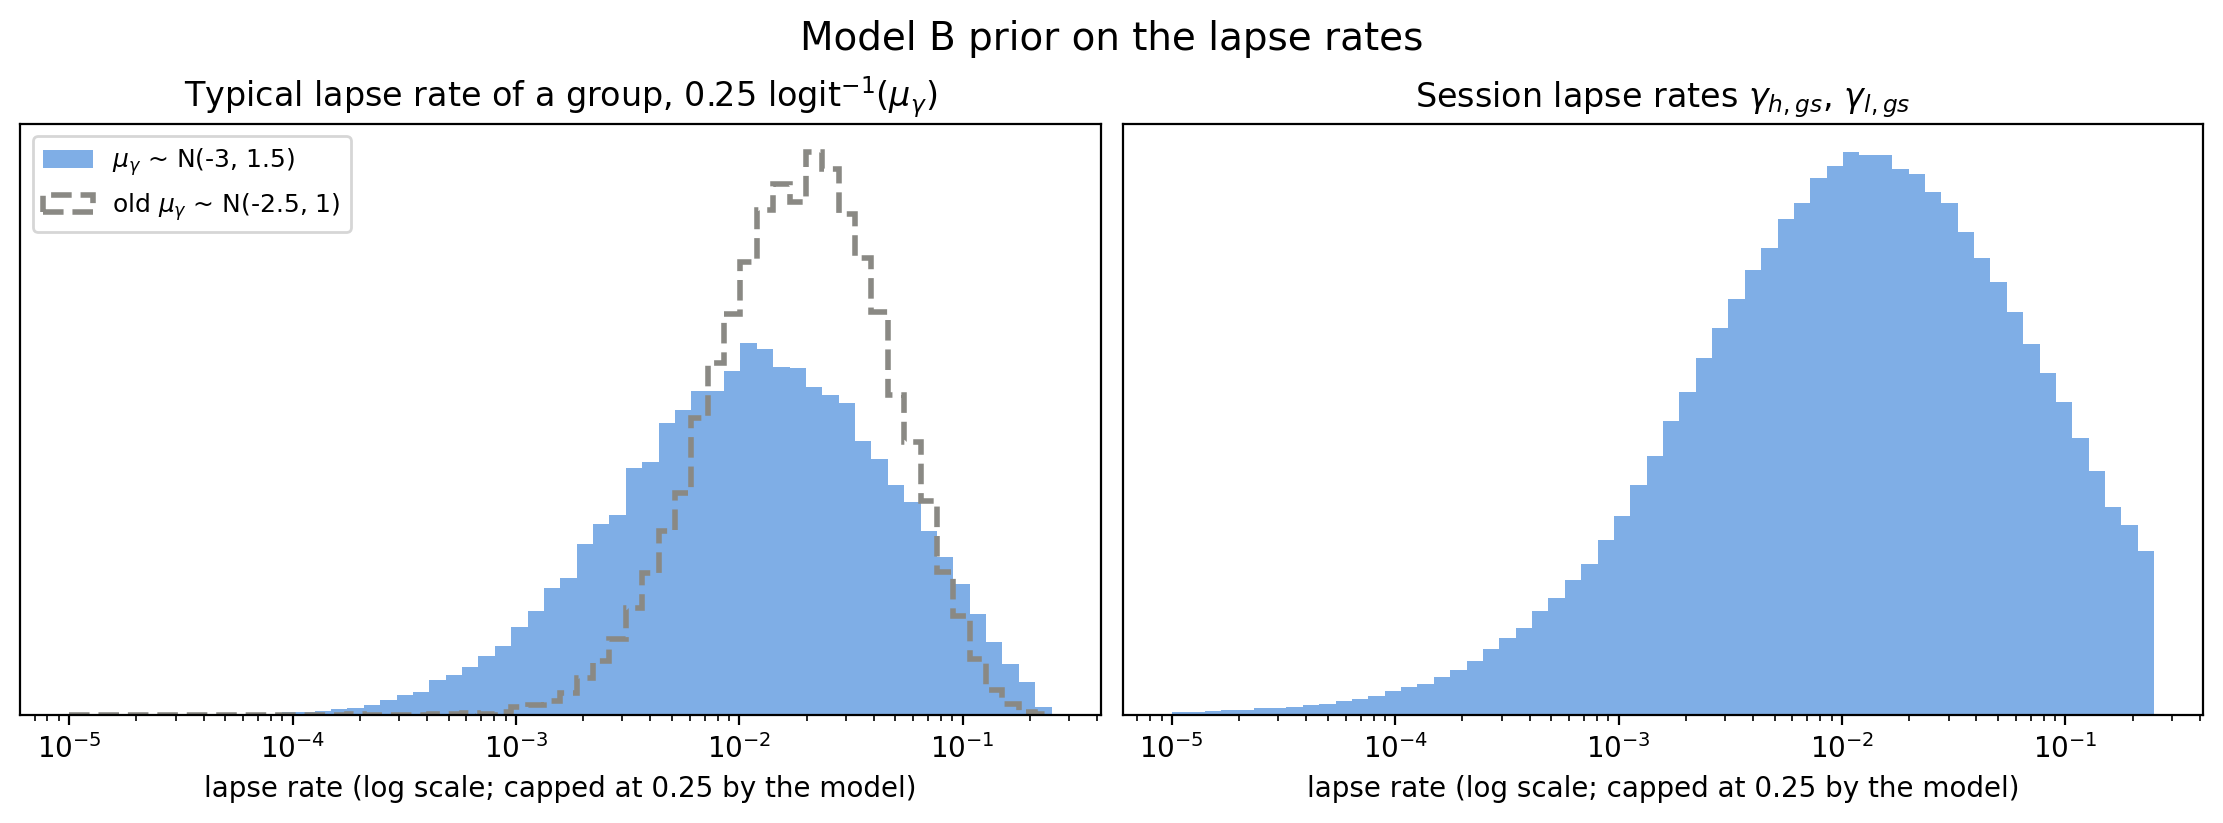
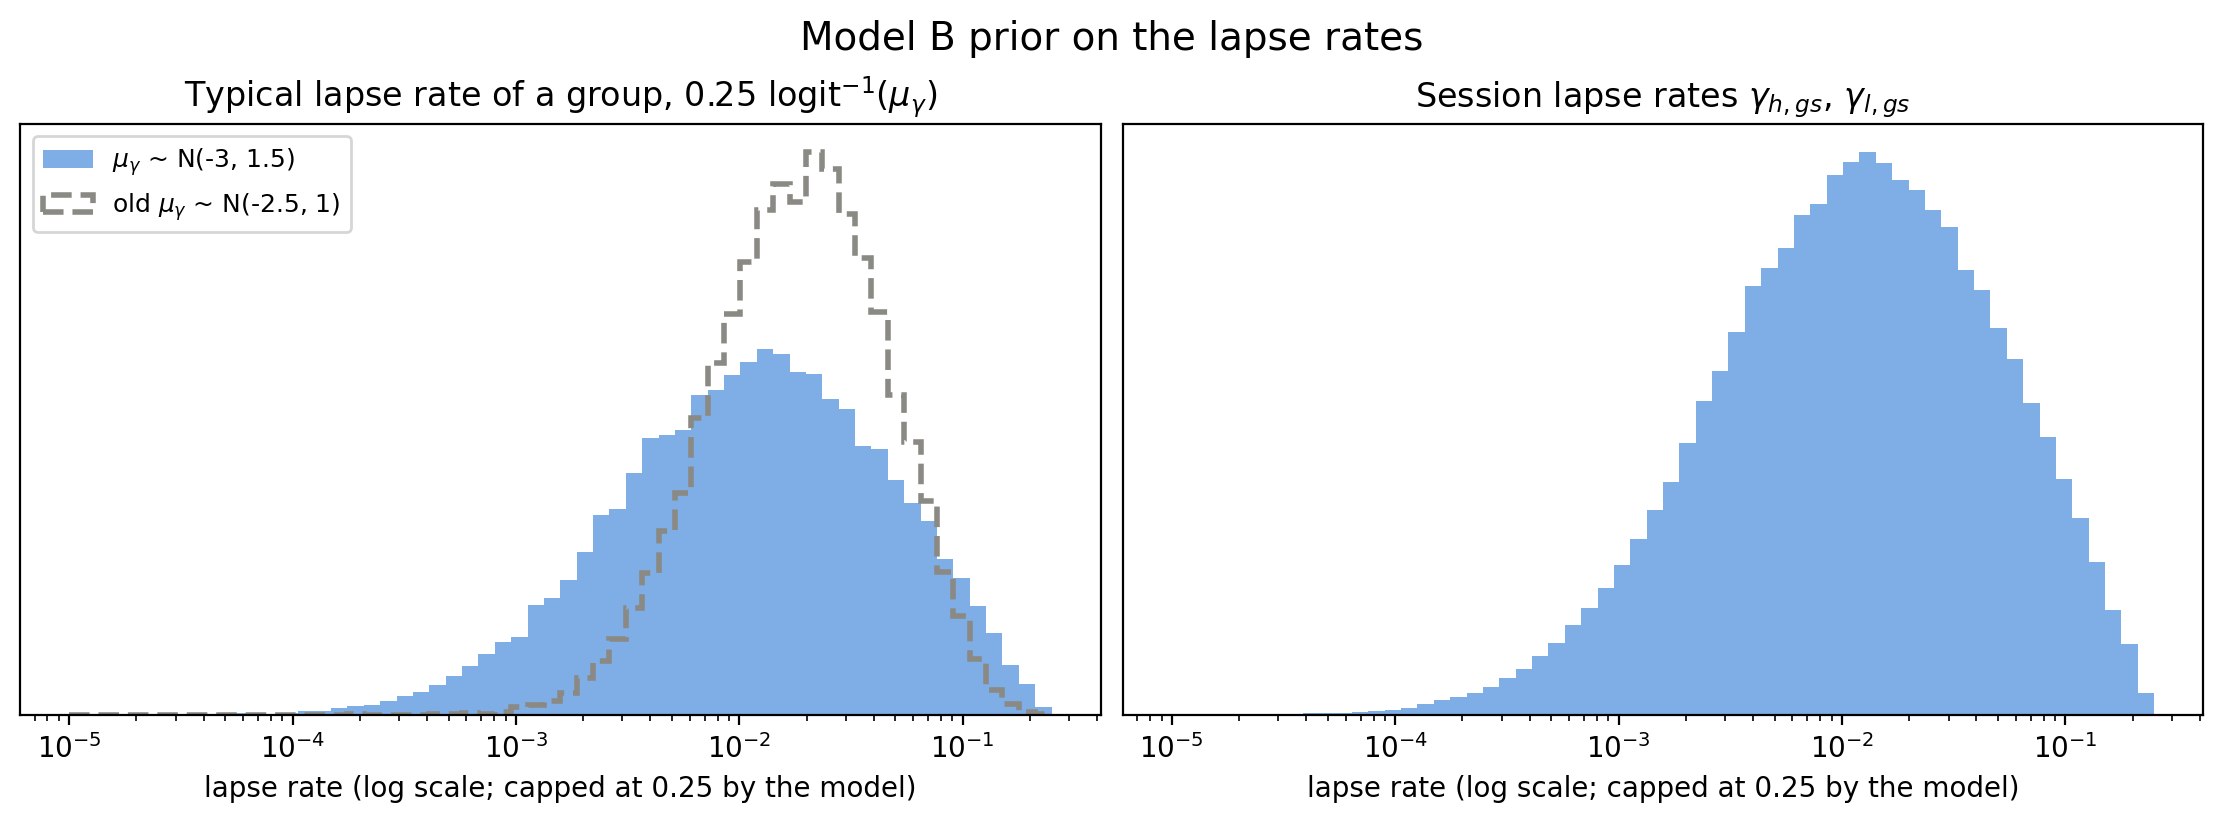
Claude: Tighten the Model B lapse-rate sd prior to HalfNormal(0.5)
sig_gam (the between-session sd of gam_h and gam_l on the logit scale)
had a HalfNormal(1.25) prior, as wide as the spread of mu_gam itself:
it let sessions differ from their group's typical lapse rate by a
factor of 10 or more, and put 8.4% of prior session lapse rates above
0.10.

The user's expectation is that a monkey with a typical lapse rate of
0.05 lapses at 0.03-0.07 in most sessions. On the logit scale that is
an sd of about 0.27-0.53, depending on what "most" means. sig_gam now
has a HalfNormal(0.5) prior (median 0.34, 95% up to 1.1); the prior
check confirms 80% of sessions at a typical 0.05 fall in 0.03-0.07.

Check_Prior_B.py prints the sig_gam prior and that session spread;
both prior plots are regenerated. Convergence_B_Report.txt lists the
new prior and marks follow-up 3 done.

diff --git a/Model_B/Check_Prior_B.py b/Model_B/Check_Prior_B.py
@@ -32,7 +32,7 @@ z_mu = z_all[:,1]
 z_sig = z_all[:,2]
 
 mu_gam = 1.5*z_mu+(-3)
-sig_gam = np.abs(1.25*z_sig)
+sig_gam = np.abs(0.5*z_sig)
 gam_samps = 0.25*(1 / (1 + np.exp(-(sig_gam*z_s+mu_gam))))
 
 
@@ -40,7 +40,7 @@ plt.hist(gam_samps, density=True, bins=20)
 
 
 #%% SLOPE AND LAPSE PRIORS, sampled from the actual model on the real design
-# mu_b1 ~ LogNormal(log 4, 0.5), sig_b1 ~ Exp(mean 1), mu_gam ~ N(-3, 1.5)
+# mu_b1 ~ LogNormal(log 4, 0.5), sig_b1 ~ Exp(mean 1), mu_gam ~ N(-3, 1.5), sig_gam ~ HalfNormal(0.5)
 
 from pathlib import Path
 from scipy.stats import lognorm
@@ -60,7 +60,7 @@ sess_idx = data_dict['sess_idx']
 exec(open(MODEL_DIR / "Build_Model_B.py").read())
 
 with model_B:
-    prior = pm.sample_prior_predictive(draws=4000, var_names=['mu_betas', 'sig_betas', 'beta_vec', 'mu_gams', 'gam_h', 'gam_l', 'JND'],
+    prior = pm.sample_prior_predictive(draws=4000, var_names=['mu_betas', 'sig_betas', 'beta_vec', 'mu_gams', 'sig_gams', 'gam_h', 'gam_l', 'JND'],
                                        random_seed=1).prior
 
 mu_b1_samps = prior['mu_betas'].sel(betas='b1').values.ravel()
@@ -128,6 +128,15 @@ session_gam = np.concatenate([prior['gam_h'].values.ravel(), prior['gam_l'].valu
 for name, s in [('typical gamma, N(-3, 1.5)', typical_gam), ('typical gamma, old N(-2.5, 1)', typical_gam_old),
                 ('session gamma', session_gam)]:
     print(f"{name}: median {np.median(s):.4f}, 95% interval {np.round(np.percentile(s, [2.5, 97.5]), 4)}")
+
+# day-to-day spread implied by the sig_gam prior: sessions of a group whose typical lapse rate is 0.05
+sig_gam_samps = prior['sig_gams'].values.ravel()
+mu_at_5pct = np.log(0.2 / 0.8)   # 0.25 * logit^-1(mu) = 0.05
+z_sess = norm.rvs(size=sig_gam_samps.size, random_state=4)
+gam_at_5pct = 0.25 / (1 + np.exp(-(mu_at_5pct + sig_gam_samps * z_sess)))
+print(f"sig_gam prior: median {np.median(sig_gam_samps):.2f}, 95% interval {np.round(np.percentile(sig_gam_samps, [2.5, 97.5]), 2)}")
+print(f"sessions at a typical lapse rate of 0.05: {np.mean((gam_at_5pct > 0.03) & (gam_at_5pct < 0.07)):.0%} within 0.03-0.07, "
+      f"90% interval {np.round(np.percentile(gam_at_5pct, [5, 95]), 3)}")
 
 fig, axes = plt.subplots(1, 2, figsize=(11, 4), constrained_layout=True)
 bins = np.logspace(-5, np.log10(0.25), 61)

diff --git a/Model_B/Build_Model_B.py b/Model_B/Build_Model_B.py
@@ -67,7 +67,7 @@ with pm.Model(coords=coords) as model_B:
     #   gamma = 0.25 * w_gam
     #   w_gam ~ LogitNormal[ mu = mu_gam , sigma = sig_gam ]
     #       mu_gam ~ N[ mu = -3, sigma = 1.5 ]   (typical gamma: median 0.012, 95% in [0.0007, 0.12])
-    #       sig_gam ~ HalfNormal[sig=1.25]
+    #       sig_gam ~ HalfNormal[sig=0.5]   (median 0.34: at a typical gamma of 0.05, sessions mostly within 0.03-0.07)
     # REPARAMETRIZATION LogitNormal: X ~ LogitNormal[ mu , sig ]
     #   Z ~ Normal[0,1]
     #   X = 1 / ( 1+ exp (- (sig*Z + mu) ) )
@@ -77,7 +77,7 @@ with pm.Model(coords=coords) as model_B:
     z_mu_gams = pm.Normal("z_mu_gams", mu=0, sigma=1, dims = ('betas', 'groups'))
     mu_gams = pm.Deterministic("mu_gams", 1.5*z_mu_gams - 3, dims = ('betas', 'groups'))
     z_sig_gams = pm.Normal("z_sig_gams", mu=0, sigma=1, dims = ('betas', 'groups'))
-    sig_gams = pm.Deterministic('sig_gams', pm.math.abs(1.25*z_sig_gams), dims=('betas', 'groups'))
+    sig_gams = pm.Deterministic('sig_gams', pm.math.abs(0.5*z_sig_gams), dims=('betas', 'groups'))
     z_gams = pm.Normal("z_gams", mu=0, sigma=1, dims=("betas", "groups", "sessions"))
     gams = pm.Deterministic("gams", 0.25 * pm.math.invlogit(sig_gams[..., None] * z_gams + mu_gams[..., None]), dims=("betas", "groups", "sessions"),)
     
